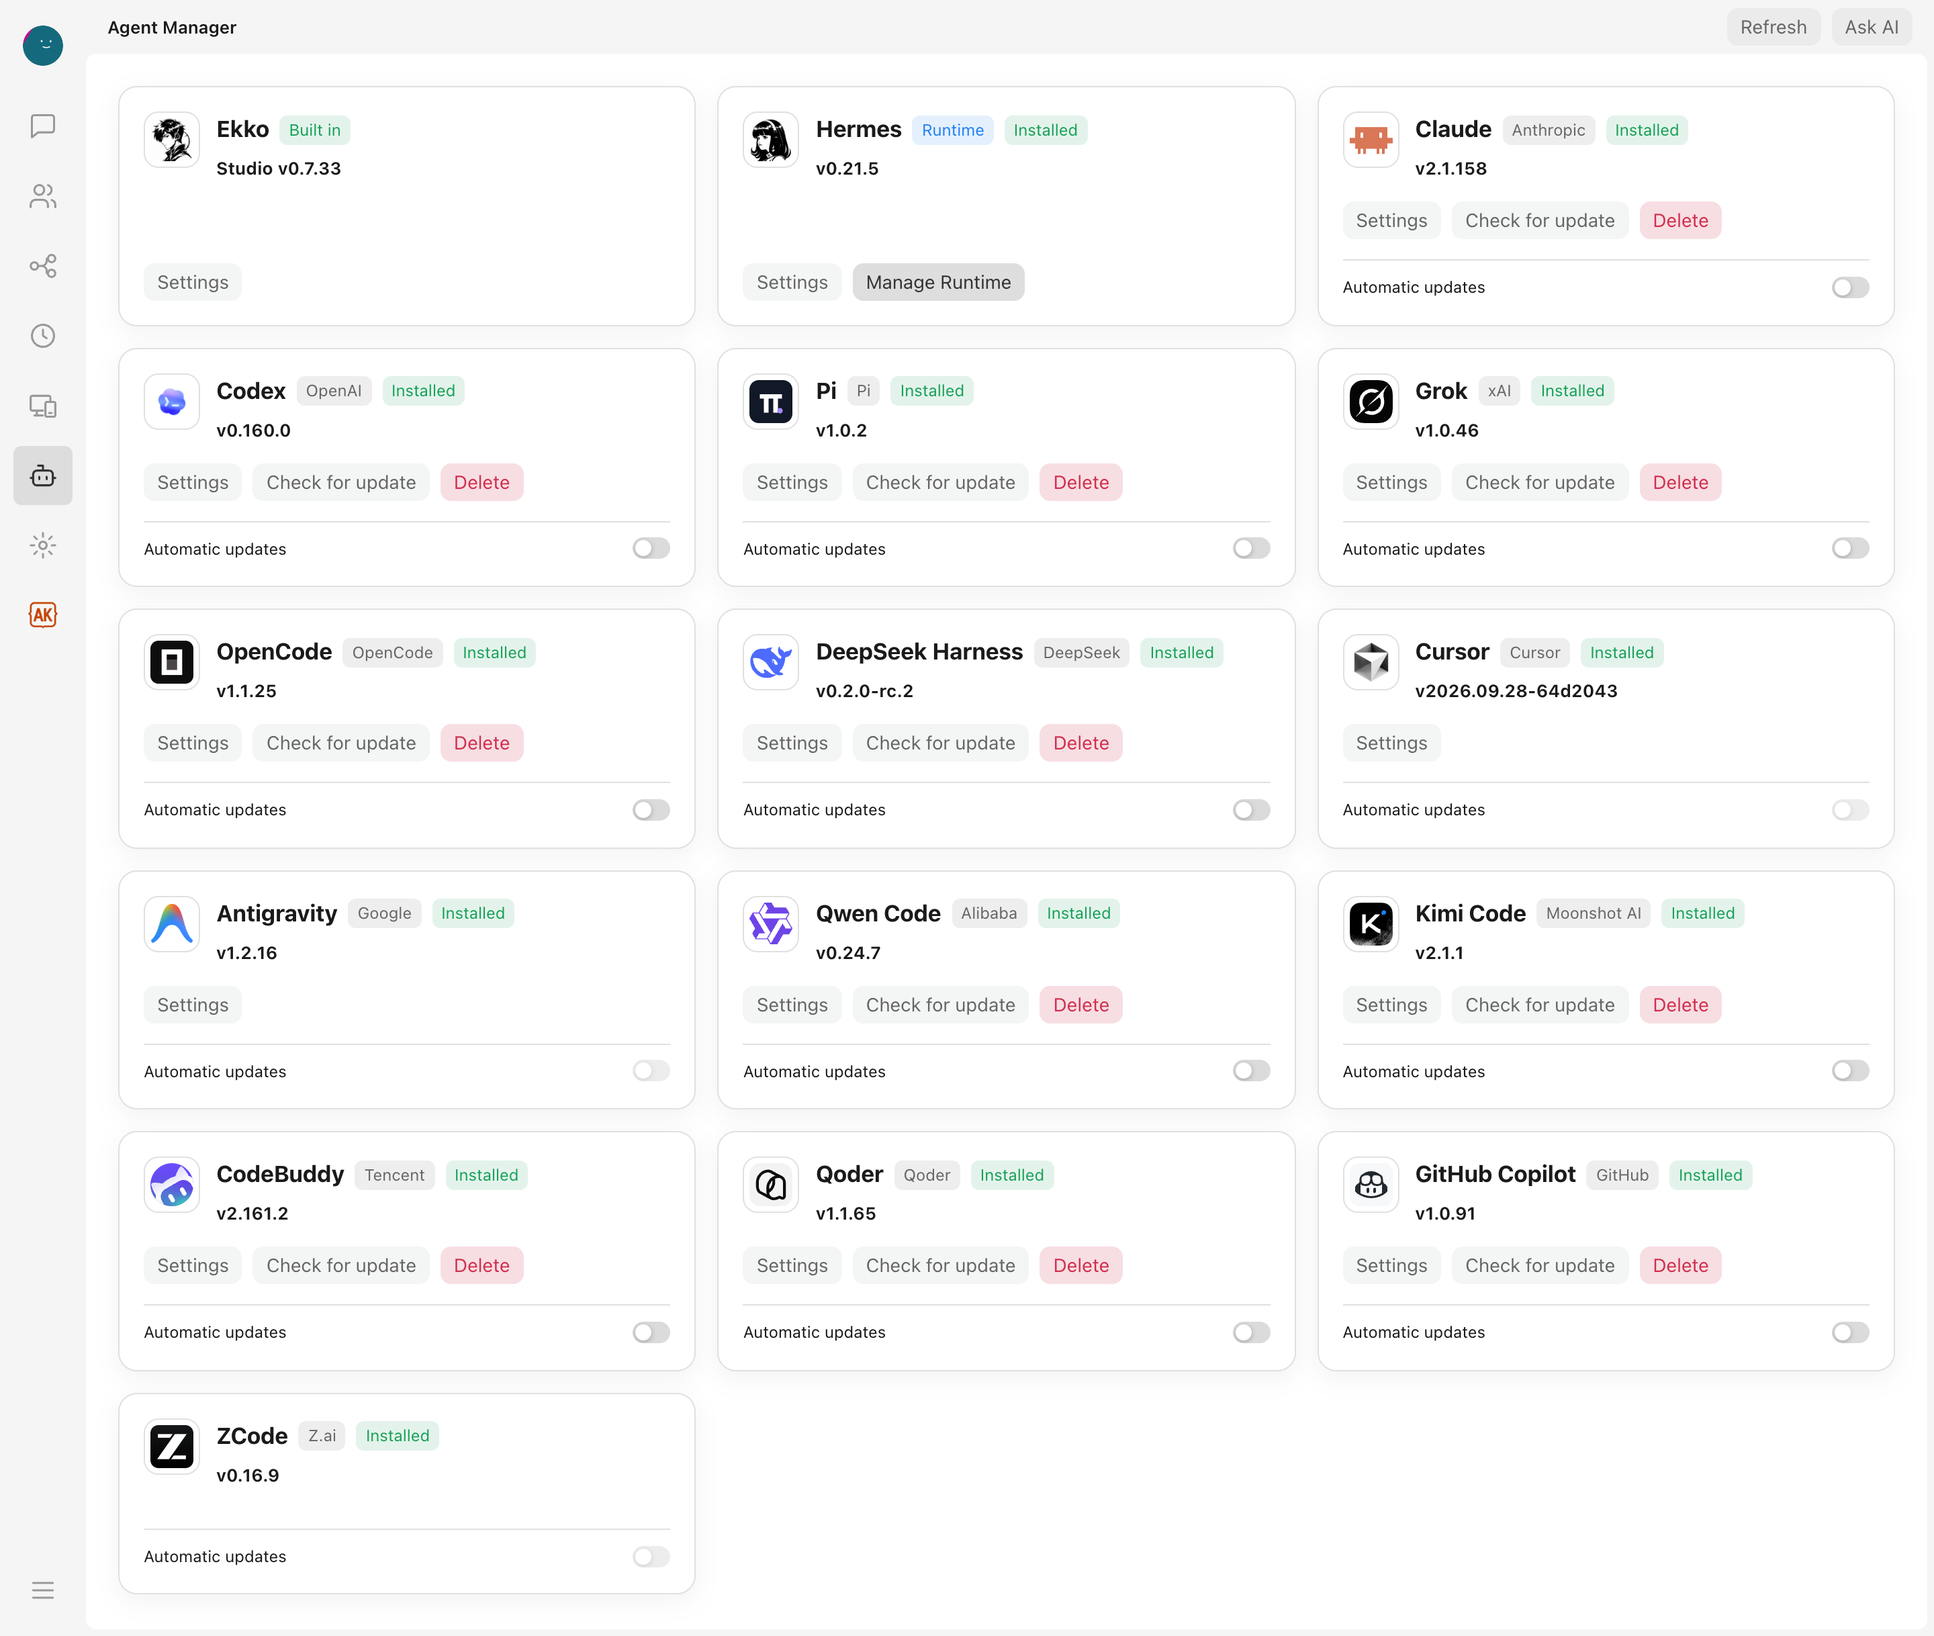
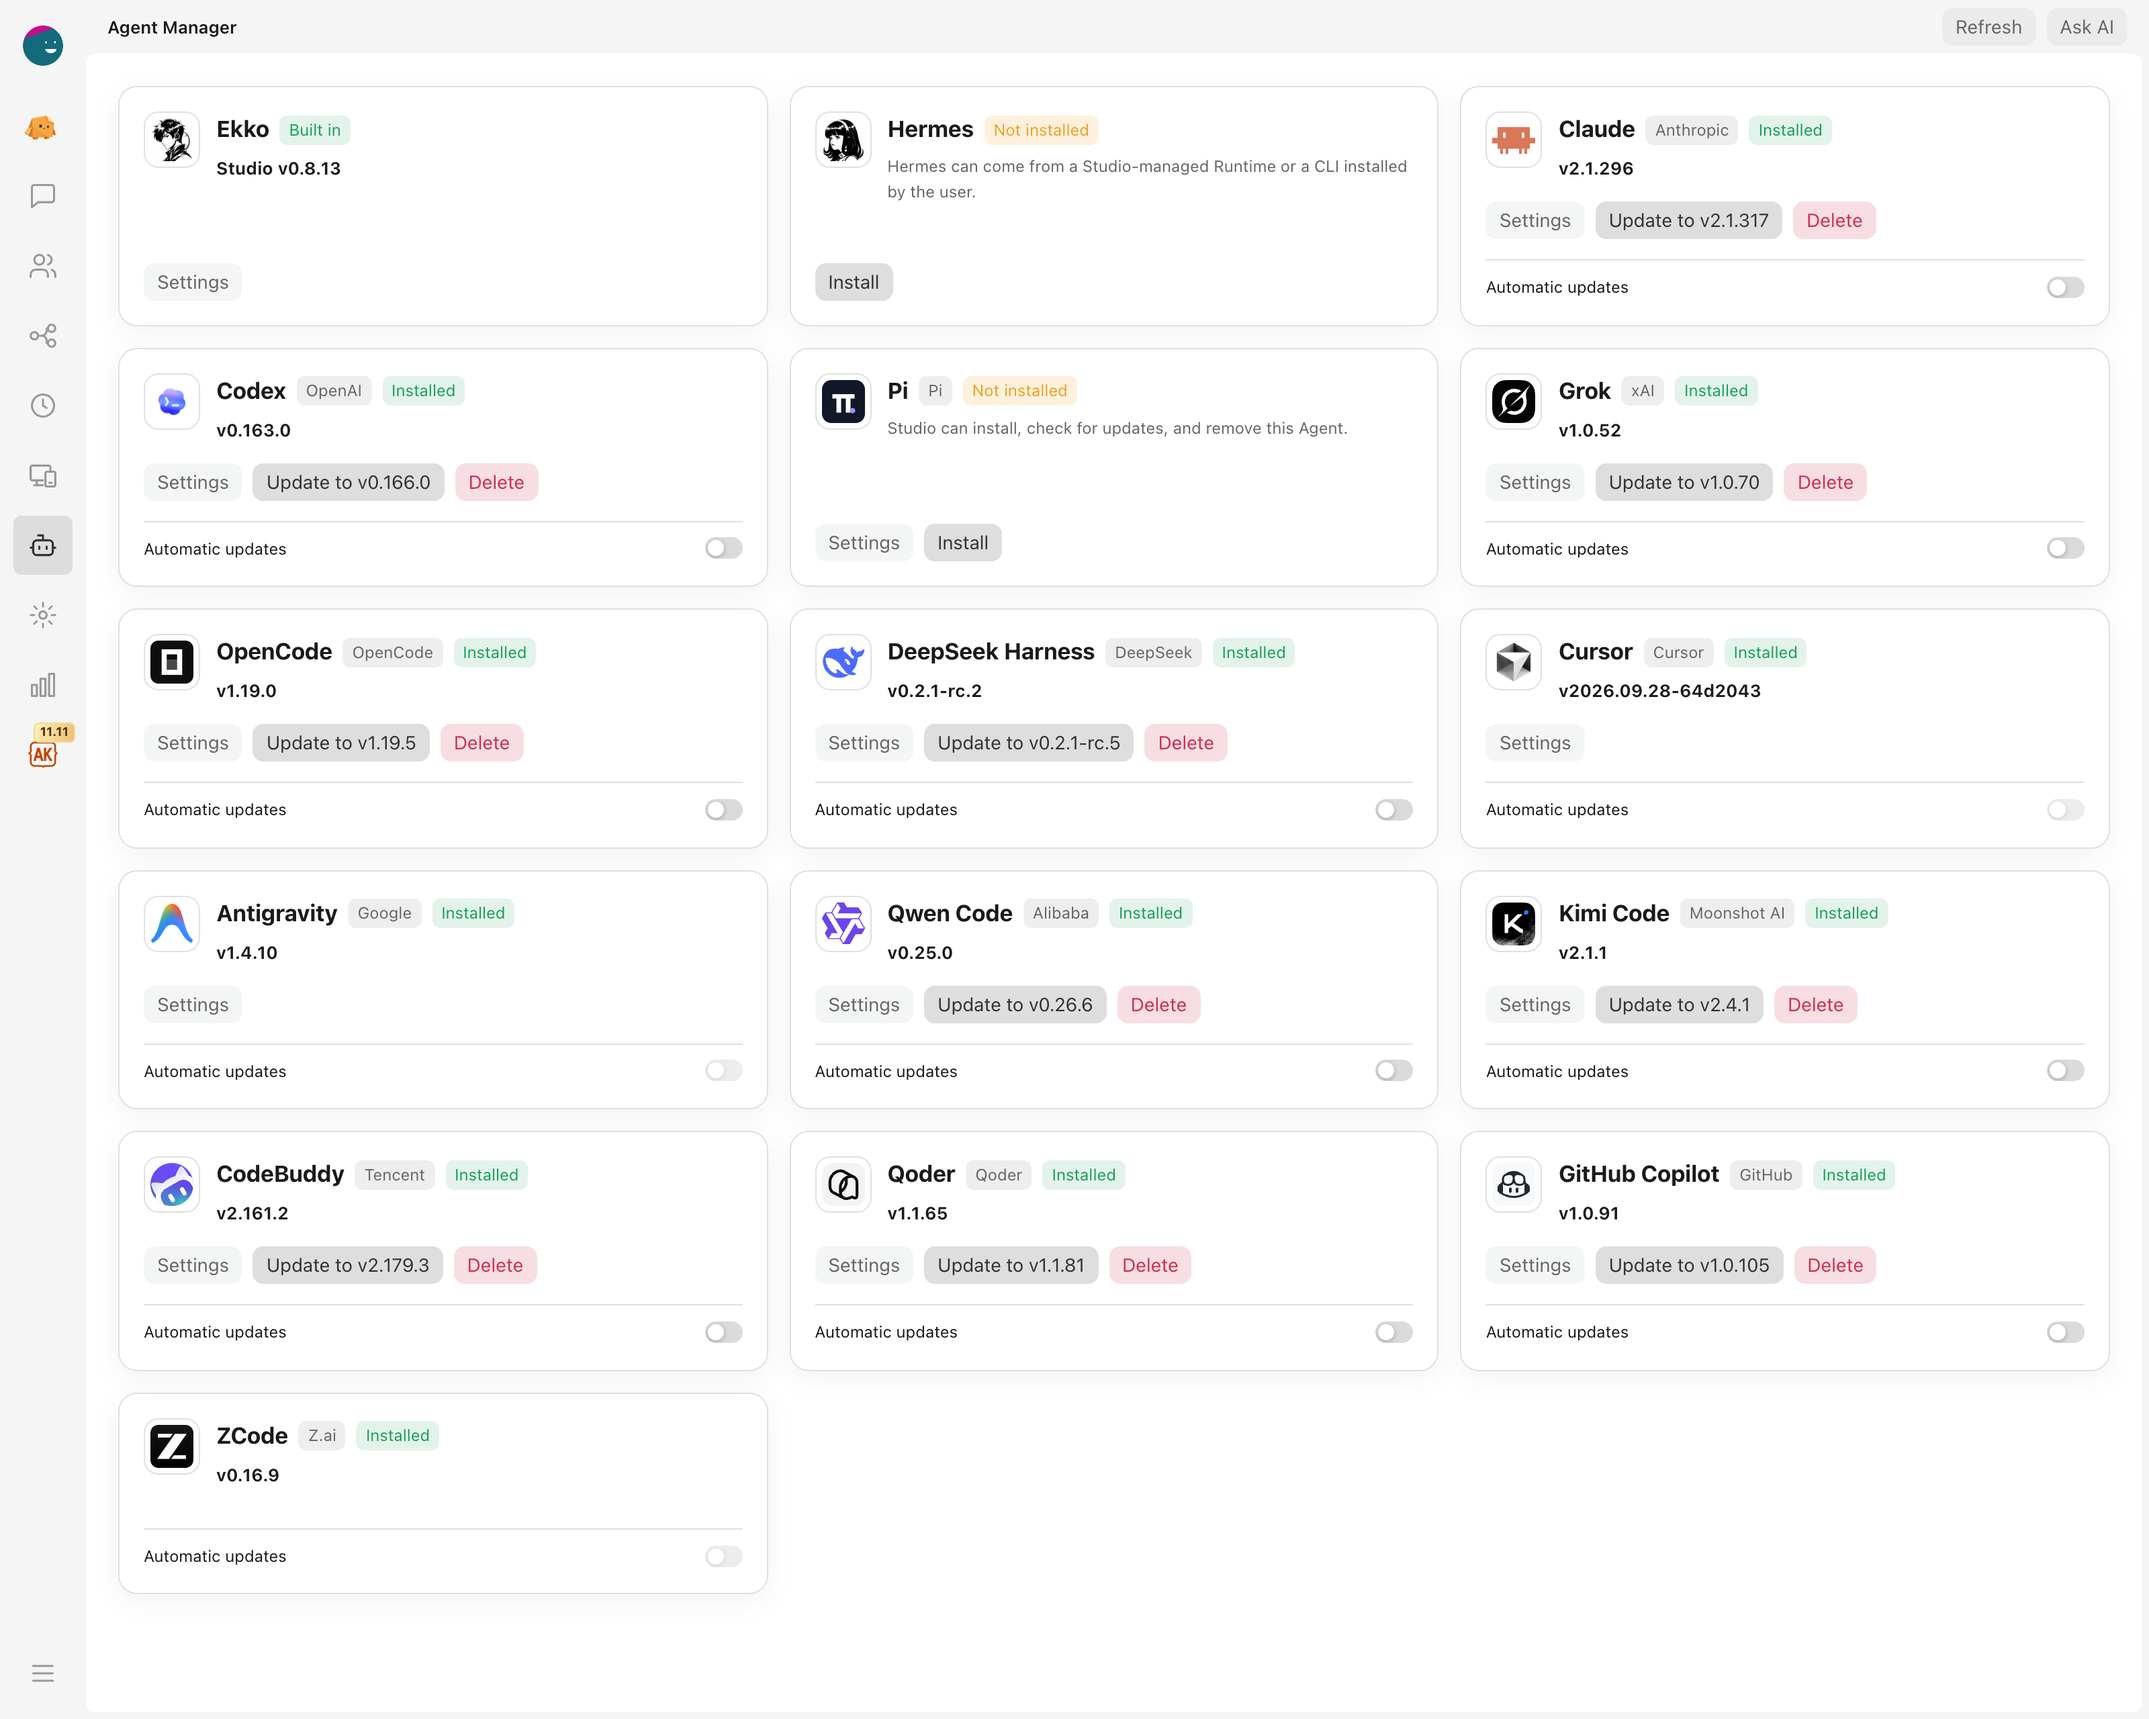
docs: refresh README product screenshots from running Studio

diff --git a/docs/screenshots/overview/README.md b/docs/screenshots/overview/README.md
@@ -1,36 +1,69 @@
 # Product screenshots
 
-Captured on 2026-10-10 from the Ekko Studio **v0.7.33** client at commit
-`05b4e1bd84d7430ec3fa85247282cf68235e76c8`.
+Captured on 2026-11-03 from Ekko Studio **v0.8.13** source at commit
+`1f4d0080673052760056056448686d8f6e316ab2`.
 
 | Image | What it shows | Pixel dimensions |
 | --- | --- | --- |
-| [new-chat.png](./new-chat.png) | Responsive Agent cards with Ekko selected and the shared chat composer. | 2880 × 1920 |
-| [workspace.png](./workspace.png) | A fictional release-planning conversation, completed task card, and example per-turn usage. | 2880 × 1920 |
-| [workflow.png](./workflow.png) | An idle Ekko → Codex → Claude demonstration workflow with an approval gate on the review node. | 2880 × 1920 |
-| [agent-manager.png](./agent-manager.png) | All 16 Agent cards, local CLI versions, and automatic-update controls. | 2880 × 2436 |
-| [skills.png](./skills.png) | Ekko Skills with a demonstration GitHub skill and category/source controls. | 2880 × 1920 |
+| [new-chat.png](./new-chat.png) | The current Agent carousel with Ekko selected, an empty session list, and the shared composer. | 3200 × 2000 |
+| [workflow.png](./workflow.png) | A saved, idle Claude → Codex → Claude example with an approval gate on the review node. | 3200 × 2000 |
+| [agent-manager.png](./agent-manager.png) | All 16 Agent cards with actual local installation/version detection and update controls. | 3200 × 2560 |
 
-These are direct Playwright screenshots from the system Chrome channel, at a
-1440-pixel CSS viewport width and 2× device scale. Agent Manager uses a 1218-pixel
-viewport height to include the entire catalog; the others use 960 pixels.
-The workflow list and run-history panels were collapsed through their UI controls,
-then the canvas was fitted to the three nodes. No UI elements were painted into
-the images.
+## Source and capture
 
-Capture used an isolated Vite client on port 18473, a separate dependency cache,
-and the repository's Playwright API, Socket.IO, and native WebSocket fixtures.
-Conversations, the `studio-demo` model, usage figures, workflows, skills, and
-update-policy values are demonstration data, not live execution results.
-Agent installation/version fields came from a read-only local status snapshot;
-the Ekko badge reflects the captured client version. Local executable paths were
-replaced with demonstration paths before supplying the fixture.
+These are direct Playwright screenshots using the installed Google Chrome on
+macOS, with the English UI, the light theme, a 1600-pixel CSS viewport width,
+and 2× device scale. Chat and workflow use a 1000-pixel viewport height; Agent
+Manager uses 1280 pixels so the complete catalog, including ZCode, is visible.
 
-Demo conversations and workflows stayed in the capture browser. Authentication
-state, credentials, private conversations, and local executable paths are not
-included in this directory.
+The current Vue client ran through Vite at `http://127.0.0.1:18749`, connected to
+the current Koa source server at `http://127.0.0.1:18747`. Both used the repository's
+existing dependencies. The server was launched with `ts-node/register`, with a
+process-only `rootDir` override for TypeScript 6; no application source was
+changed for capture. No API fixtures, socket mocks, or replacement UI were used.
 
-All five images were inspected after capture. The capture check reported no
-browser page errors or broken images; it also verified the restored task card,
-usage summary, review approval switch, and visibility of the final Agent card.
-The English and Chinese README galleries use the same repository-relative images.
+To capture again:
+
+1. Use separate `HERMES_WEB_UI_HOME`, `HERMES_WEBUI_STATE_DIR`, `HERMES_HOME`, and
+   `WORKSPACE_BASE` directories and unused loopback ports. Do not use personal
+   Studio state. Disable Gateway autostart, LAN discovery, and automatic MCP/skill
+   injection for the capture instance.
+2. Run the source backend and the Vite client, pointing
+   `HERMES_WEB_UI_BACKEND_PORT` at that backend. Sign in to the isolated instance
+   in a fresh browser context; dismiss first-run notices through the UI.
+3. Capture `/#/hermes/chat` with Ekko selected. No model credentials are configured
+   in this instance, so the visible “No models” state is intentional.
+4. In `/#/hermes/workflow`, create the example through the UI, add and connect three
+   nodes, select Claude/Codex/Claude in Global mode, and enable the final node's
+   approval gate. Save and reload it to verify persistence. Collapse the workflow
+   list and run-history panels, fit the canvas, and clear the node selection.
+5. Capture `/#/studio/agents` after inventory loading. Inspect every resulting PNG
+   for private content, clipping, missing assets, dialogs, and tooltips.
+
+## Data and privacy
+
+The workflow name, node names, and instructions are documentation examples entered
+through the real editor and stored by the isolated backend. **The workflow was
+not executed.** All three nodes are Idle; “Source returned normally” labels name
+edge conditions, not observed execution results. Global mode and “Agent default
+model” describe configuration only and do not establish working CLI authorization.
+
+Agent installation/version fields and available-update labels come from actual
+backend detection on this machine. No Agent was installed, updated, or removed
+for these screenshots. Hermes is unavailable in the isolated runtime; the status
+shown here is not a requirement for other installations. Automatic-update switches
+use the isolated instance's defaults.
+
+No personal conversations, model credentials, private provider endpoints, local
+executable paths, or authentication state are included in these image assets.
+The pictures were not retouched. The old fixture-based conversation and Skills
+screenshots were removed from the gallery and this directory.
+
+## Verification
+
+All three PNGs were visually inspected. Capture checks found no browser page
+errors, failed HTTP responses, or broken visible images. The saved workflow
+restored three Idle nodes, two links, and the enabled review approval gate after
+navigation. Agent Manager displayed all 16 cards without clipping the last card.
+Both language versions of the repository README share these three relative image
+paths; verify them when replacing these assets.

diff --git a/README.md b/README.md
@@ -19,7 +19,7 @@
 </p>
 
 <p align="center">
-  <img src="./docs/screenshots/overview/new-chat.png" alt="Ekko Studio new-chat page with Agent cards and a shared composer" width="960"/>
+  <img src="./docs/screenshots/overview/new-chat.png" alt="Ekko Studio new-chat page with the Agent carousel and shared composer" width="960"/>
 </p>
 
 <p align="center">
@@ -35,25 +35,12 @@ package and command remain supported and receive the same releases.
 
 ## Screenshots
 
-Captured from the **v0.7.33** client on 2026-10-10. Chat, workflows, and Skills use demo data; Agent versions reflect a local installation. See [capture notes](./docs/screenshots/overview/README.md).
+Captured from **v0.8.13** source on 2026-11-03, running locally with isolated data. The workflow is an example created in the UI and has not been run; Agent statuses reflect this machine. See [capture notes](./docs/screenshots/overview/README.md).
 
 | Visual workflows | Agent Manager |
 | --- | --- |
-| [![Visual workflow connecting research, coding, and review](./docs/screenshots/overview/workflow.png)](./docs/screenshots/overview/workflow.png) | [![Agent Manager with built-in and coding-agent integrations](./docs/screenshots/overview/agent-manager.png)](./docs/screenshots/overview/agent-manager.png) |
-| Connect agent steps and add a human approval gate. | Manage agent installations, settings, and updates in one place. |
-
-<details>
-<summary>Explore chat progress and Skills</summary>
-
-Follow a task in the conversation, including its plan and per-turn usage.
-
-![Ekko Studio conversation with a completed task plan and usage summary](./docs/screenshots/overview/workspace.png)
-
-Browse installed skills, read their instructions, and enable them as needed.
-
-![Ekko Agent Skills browser showing the GitHub skill](./docs/screenshots/overview/skills.png)
-
-</details>
+| [![Idle example workflow connecting Claude, Codex, and a review node with an approval gate](./docs/screenshots/overview/workflow.png)](./docs/screenshots/overview/workflow.png) | [![Agent Manager with all 16 built-in and coding-agent cards](./docs/screenshots/overview/agent-manager.png)](./docs/screenshots/overview/agent-manager.png) |
+| Connect agent steps and add a human approval gate; this example is not running. | Manage Agent installations, settings, and updates in one place. |
 
 ## Core Capabilities
 

diff --git a/README_zh.md b/README_zh.md
@@ -19,7 +19,7 @@
 </p>
 
 <p align="center">
-  <img src="./docs/screenshots/overview/new-chat.png" alt="Ekko Studio 新建聊天页面：Agent 卡片与统一输入框" width="960"/>
+  <img src="./docs/screenshots/overview/new-chat.png" alt="Ekko Studio 新建聊天页面：Agent 轮播卡片与统一输入框" width="960"/>
 </p>
 
 <p align="center">
@@ -34,25 +34,12 @@ Ekko Studio 原名 Hermes Studio / Hermes Web UI。GitHub 仓库为
 
 ## 界面预览
 
-以下截图来自 **v0.7.33** 客户端（2026-10-10）。聊天、工作流和技能使用演示数据，Agent 版本信息来自本机安装。详见[截图说明](./docs/screenshots/overview/README.md)。
+以下截图于 2026-11-03 从本地运行的 **v0.8.13** 源码版本截取，使用隔离数据目录。工作流示例通过界面创建，尚未执行；Agent 状态来自本机实际检测。详见[截图说明](./docs/screenshots/overview/README.md)。
 
 | 可视化工作流 | Agent 管理 |
 | --- | --- |
-| [![可视化工作流：研究、编码与审核](./docs/screenshots/overview/workflow.png)](./docs/screenshots/overview/workflow.png) | [![Agent 管理器：内置 Agent 与 Coding Agent 集成](./docs/screenshots/overview/agent-manager.png)](./docs/screenshots/overview/agent-manager.png) |
-| 连接多个 Agent 节点，并设置人工审批。 | 在同一界面管理 Agent 安装、设置和更新。 |
-
-<details>
-<summary>查看聊天进度和技能管理界面</summary>
-
-在对话中跟踪任务计划、步骤进度和每轮用量。
-
-![Ekko Studio 对话：已完成的任务计划与用量摘要](./docs/screenshots/overview/workspace.png)
-
-浏览已安装的技能、阅读使用说明，并按需启用。
-
-![Ekko Agent 技能管理与 GitHub 技能说明](./docs/screenshots/overview/skills.png)
-
-</details>
+| [![未执行的工作流示例：Claude、Codex 与开启人工审批的审核节点](./docs/screenshots/overview/workflow.png)](./docs/screenshots/overview/workflow.png) | [![Agent 管理器：完整展示 16 张内置 Agent 与 Coding Agent 卡片](./docs/screenshots/overview/agent-manager.png)](./docs/screenshots/overview/agent-manager.png) |
+| 连接多个 Agent 节点，并设置人工审批；此示例尚未执行。 | 在同一界面管理 Agent 安装、设置和更新。 |
 
 ## 核心能力
 
